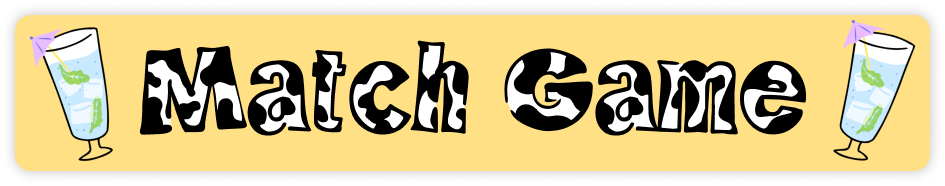
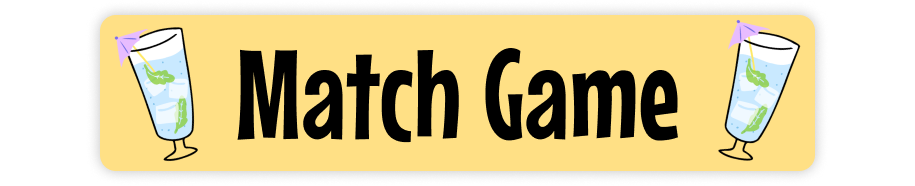
Replaced HeaderImg and changed h2 font

diff --git a/index.html b/index.html
@@ -4,6 +4,7 @@
     <meta charset="UTF-8" />
     <meta name="viewport" content="width=device-width, initial-scale=1.0" />
     <title>Match Game</title>
+    <link href="https://fonts.googleapis.com/css2?family=Mouse+Memoirs&display=swap" rel="stylesheet">
   </head>
   <body>
     <header>

diff --git a/src/index.css b/src/index.css
@@ -143,8 +143,9 @@ li img {
 }
 
 #game-over h2, #game-start h2 {
-  font-family: 'Caprasimo', cursive;
-  font-size: 4rem;
+  /* font-family: 'Caprasimo', cursive; */
+  font-family: 'Mouse Memoirs', sans-serif;
+  font-size: 5rem;
   text-align: center;
   color: #fcd256;
   margin: 0;
